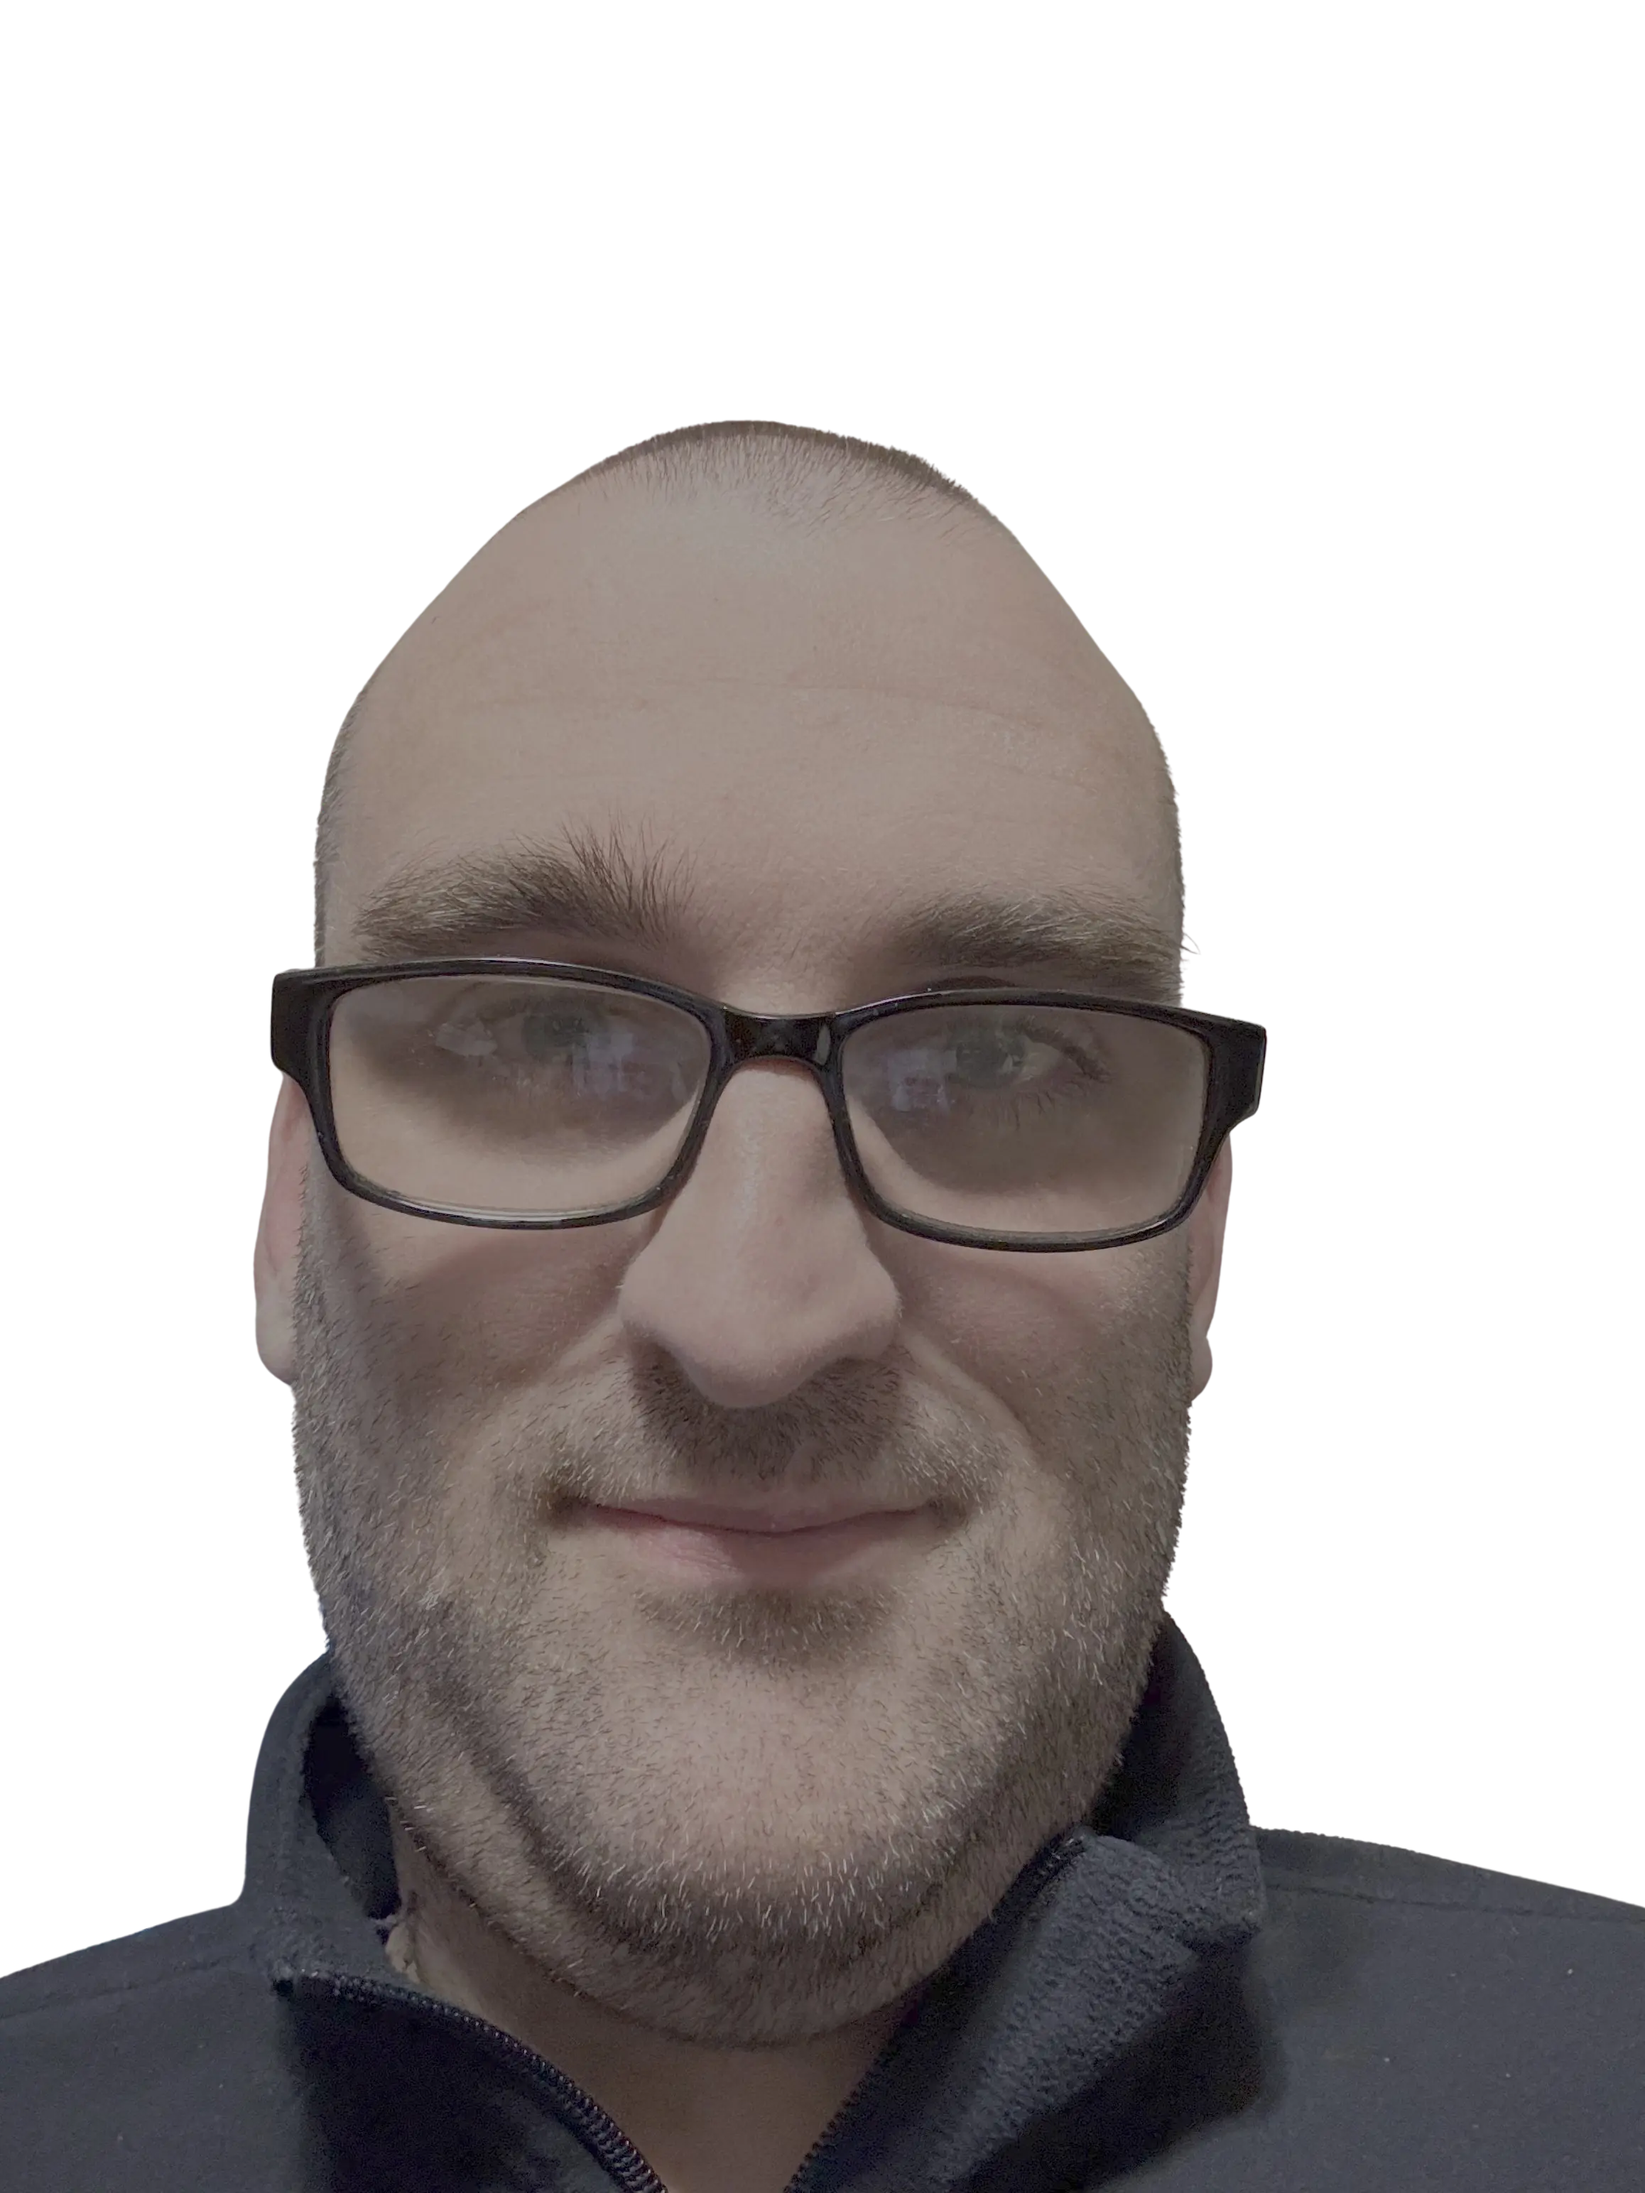
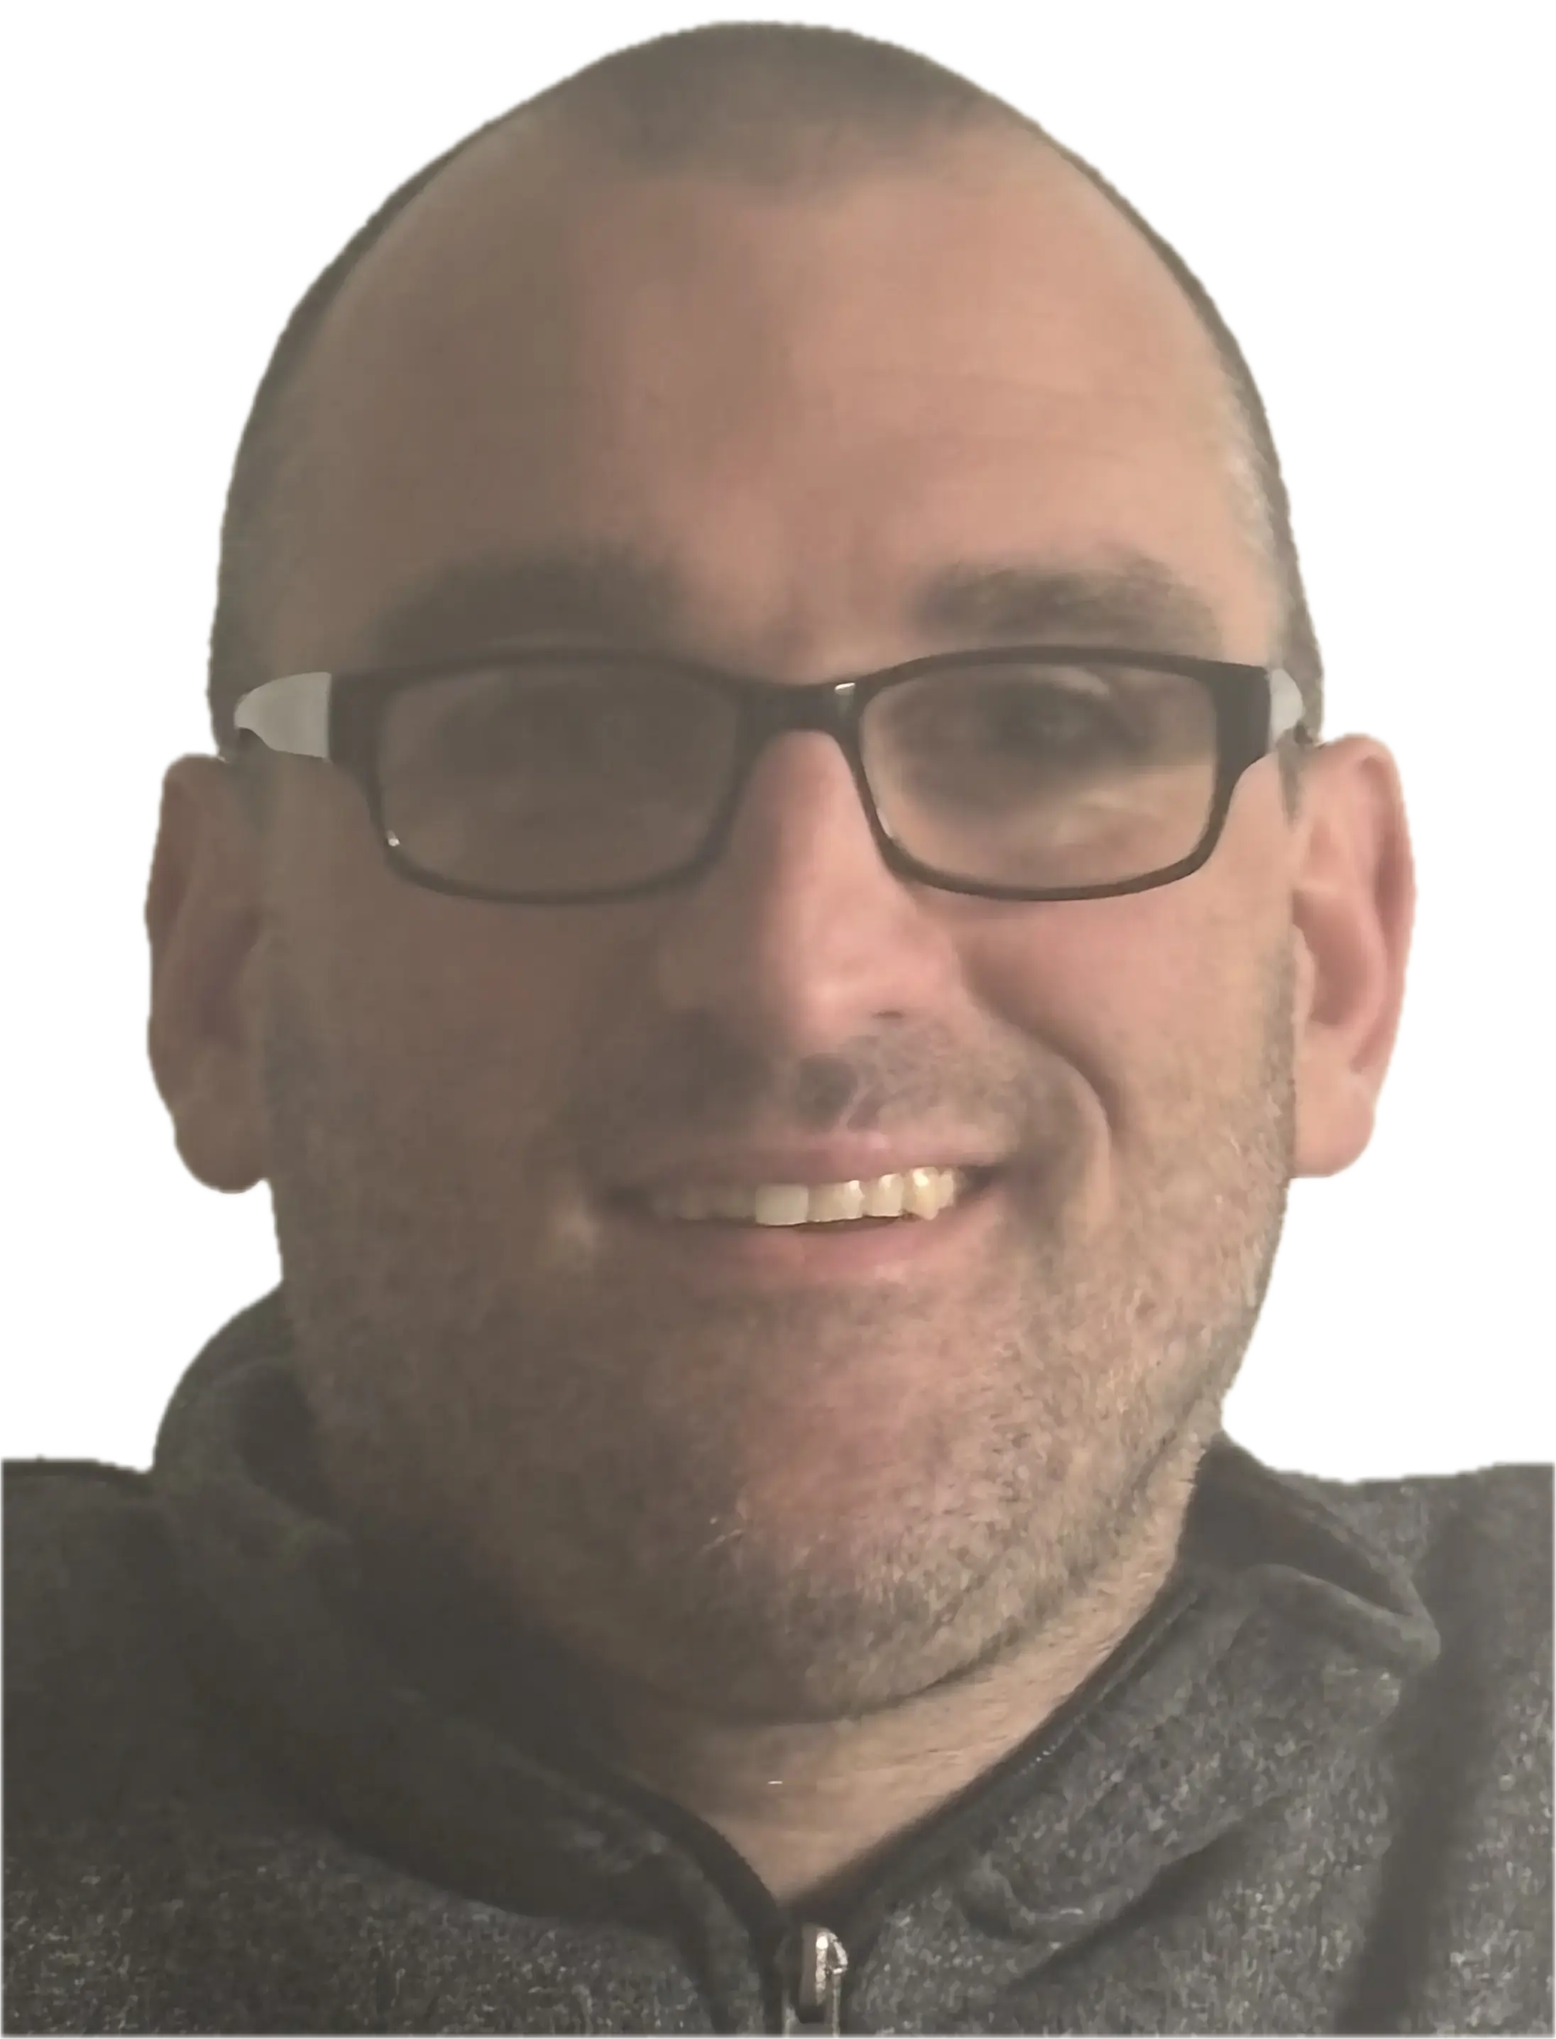
change image

diff --git a/src/app/layout.js b/src/app/layout.js
@@ -4,6 +4,7 @@ import Nav from "@/components/Nav/Nav";
 import "bootstrap/dist/css/bootstrap.min.css";
 import { config } from "@fortawesome/fontawesome-svg-core";
 import "@fortawesome/fontawesome-svg-core/styles.css";
+import Footer from "@/components/Footer/Footer";
 
 export const metadata = {
 	title: "Jordan Devaney",
@@ -23,7 +24,7 @@ export const metadata = {
 		siteName: "Jordan Devaney",
 		images: [
 			{
-				url: "/preview.webp", // Place your OG image in /public
+				url: "/me.png", // Place your OG image in /public
 				width: 1200,
 				height: 630,
 				alt: "Jordan Devaney Portfolio",
@@ -36,7 +37,7 @@ export const metadata = {
 		title: "Jordan Devaney",
 		description:
 			"Professional web developer based in Michigan specializing in React and e-commerce solutions.",
-		images: ["/preview.webp"],
+		images: ["/me.png"],
 	},
 	robots: {
 		index: true,
@@ -71,6 +72,7 @@ export default function RootLayout({ children }) {
 			<body>
 				<Nav />
 				{children}
+				<Footer />
 			</body>
 		</html>
 	);

diff --git a/src/app/sitemap.xml/route.js b/src/app/sitemap.xml/route.js
@@ -1,0 +1,27 @@
+// app/sitemap.xml/route.ts
+
+import { NextResponse } from "next/server";
+
+export async function GET() {
+	const today = new Date().toISOString();
+
+	const xml = `<?xml version="1.0" encoding="UTF-8"?>
+<urlset
+  xmlns="http://www.sitemaps.org/schemas/sitemap/0.9"
+  xmlns:xsi="http://www.w3.org/2001/XMLSchema-instance"
+  xsi:schemaLocation="http://www.sitemaps.org/schemas/sitemap/0.9
+                      http://www.sitemaps.org/schemas/sitemap/0.9/sitemap.xsd">
+
+  <url>
+    <loc>https://www.jordandevaney.com/</loc>
+    <lastmod>${today}</lastmod>
+  </url>
+
+</urlset>`;
+
+	return new NextResponse(xml, {
+		headers: {
+			"Content-Type": "application/xml",
+		},
+	});
+}

diff --git a/src/app/page.js b/src/app/page.js
@@ -1,7 +1,6 @@
 import About from "@/components/About/About";
 import Contact from "@/components/Contact/Contact";
 import Education from "@/components/Education/Education";
-import Footer from "@/components/Footer/Footer";
 import Projects from "@/components/Projects/projects";
 import Services from "@/components/Services/Services";
 
@@ -13,7 +12,6 @@ export default function Home() {
 			<Education />
 			<Projects />
 			<Contact />
-			<Footer />
 		</>
 	);
 }
